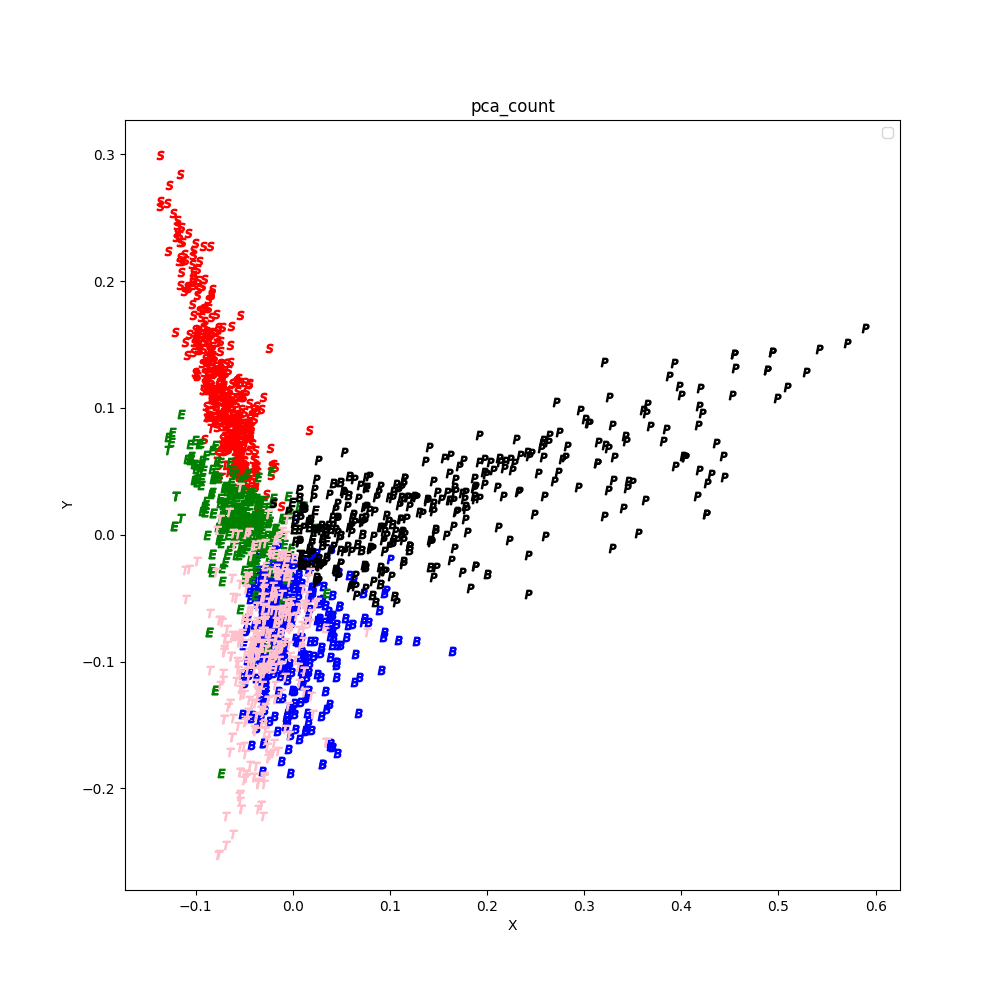
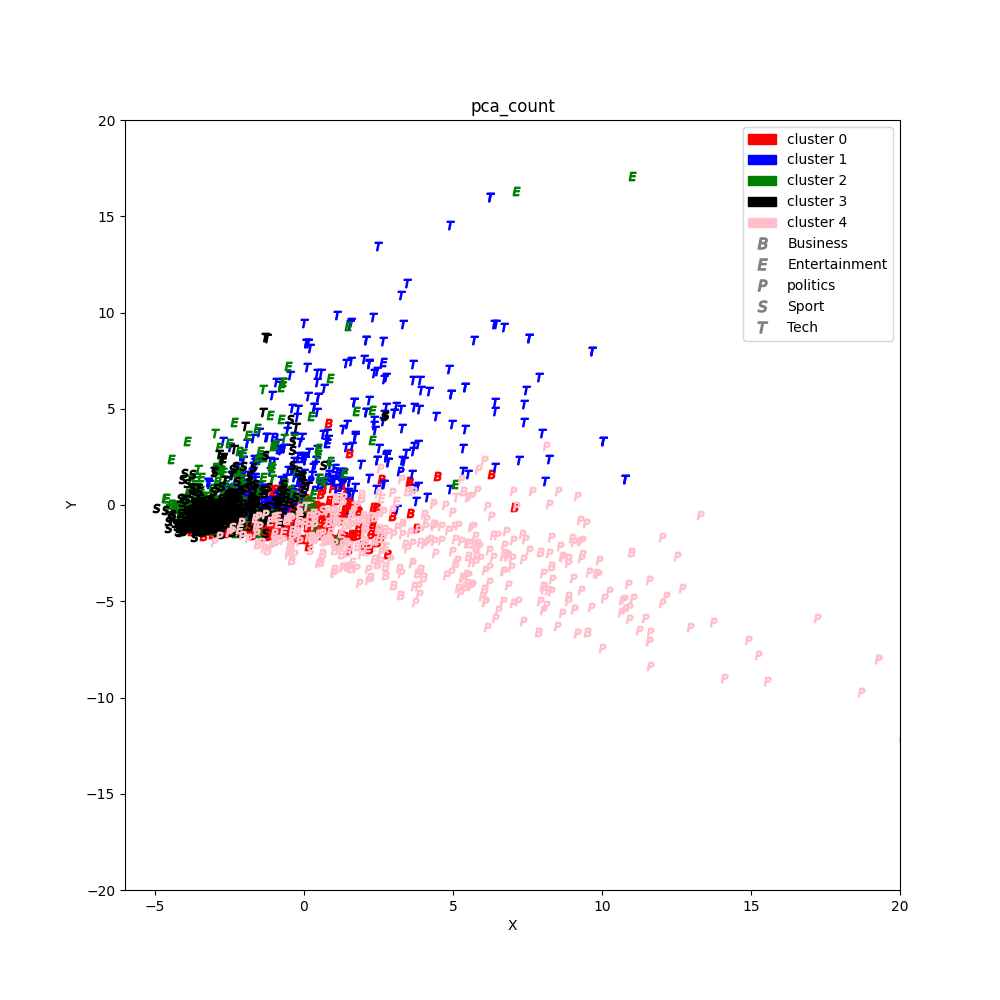
plotting works perfect

diff --git a/clustering.py b/clustering.py
@@ -9,6 +9,8 @@ import matplotlib.pyplot as plt
 from nltk.cluster import KMeansClusterer, cosine_distance
 from sklearn.decomposition import PCA
 from matplotlib.pyplot import figure
+import matplotlib.patches as mpatches
+import matplotlib.lines as mlines
 
 
 def multi_classify(clusterer, X_test):
@@ -25,7 +27,6 @@ def get_indices(array, value):
 def plot_data(clusters, k, points, categories, method_name):
 	colours = ['red', 'blue', 'green', 'black', 'pink']
 	markers = ['$B$', '$E$', '$P$', '$S$', '$T$']
-	figure(figsize=(10, 10))
 	for i in range(k):
 		indices = get_indices(clusters, i)
 		cluster_i = points[get_indices(clusters, i)]
@@ -36,10 +37,28 @@ def plot_data(clusters, k, points, categories, method_name):
 	plt.xlabel('X')
 	plt.ylabel('Y')
 	plt.title(method_name)
-	plt.legend()
+
+	red_patch = mpatches.Patch(color='red', label='cluster 0')
+	blue_patch = mpatches.Patch(color='blue', label='cluster 1')
+	green_patch = mpatches.Patch(color='green', label='cluster 2')
+	black_patch = mpatches.Patch(color='black', label='cluster 3')
+	pink_patch = mpatches.Patch(color='pink', label='cluster 4')
+
+	b_mark = mlines.Line2D([], [], color='gray', marker='$B$',
+		markersize=8, label='Business', linestyle='None')
+	e_mark = mlines.Line2D([], [], color='gray', marker='$E$',
+		markersize=8, label='Entertainment', linestyle='None')
+	p_mark = mlines.Line2D([], [], color='gray', marker='$P$',
+		markersize=8, label='politics', linestyle='None')
+	s_mark = mlines.Line2D([], [], color='gray', marker='$S$',
+		markersize=8, label='Sport', linestyle='None')
+	t_mark = mlines.Line2D([], [], color='gray', marker='$T$',
+		markersize=8, label='Tech', linestyle='None')
+	
+	plt.legend(handles=[red_patch, blue_patch, green_patch, black_patch,
+			pink_patch, b_mark, e_mark, p_mark, s_mark, t_mark])
 	plt.show()
 	plt.savefig(method_name + '.png')
-
 
 
 # read data
@@ -70,7 +89,10 @@ transformer = PCA(random_state=2020)
 pca_data = transformer.fit_transform(X_train_count.toarray())
 
 # plot data
-plot_data(clusters, 5, pca_data, y_train, 'pca_tfidf')
+plt.figure(num=1, figsize=(10, 10))
+plt.xlim([-6, 20])
+plt.ylim([-20, 20])
+plot_data(clusters, 5, pca_data, y_train, 'pca_count')
 
 
 ######### TfidfVectorizer #########
@@ -83,9 +105,8 @@ transformer = PCA(random_state=2020)
 pca_data = transformer.fit_transform(X_train_tfidf.toarray())
 
 # plot data
-plt.xlim([-6, 20])
-plt.ylim([-20, 20])
-plot_data(clusters, 5, pca_data, y_train, 'pca_count')
+plt.figure(num=2, figsize=(10, 10))
+plot_data(clusters, 5, pca_data, y_train, 'pca_tfidf')
 
 
 
